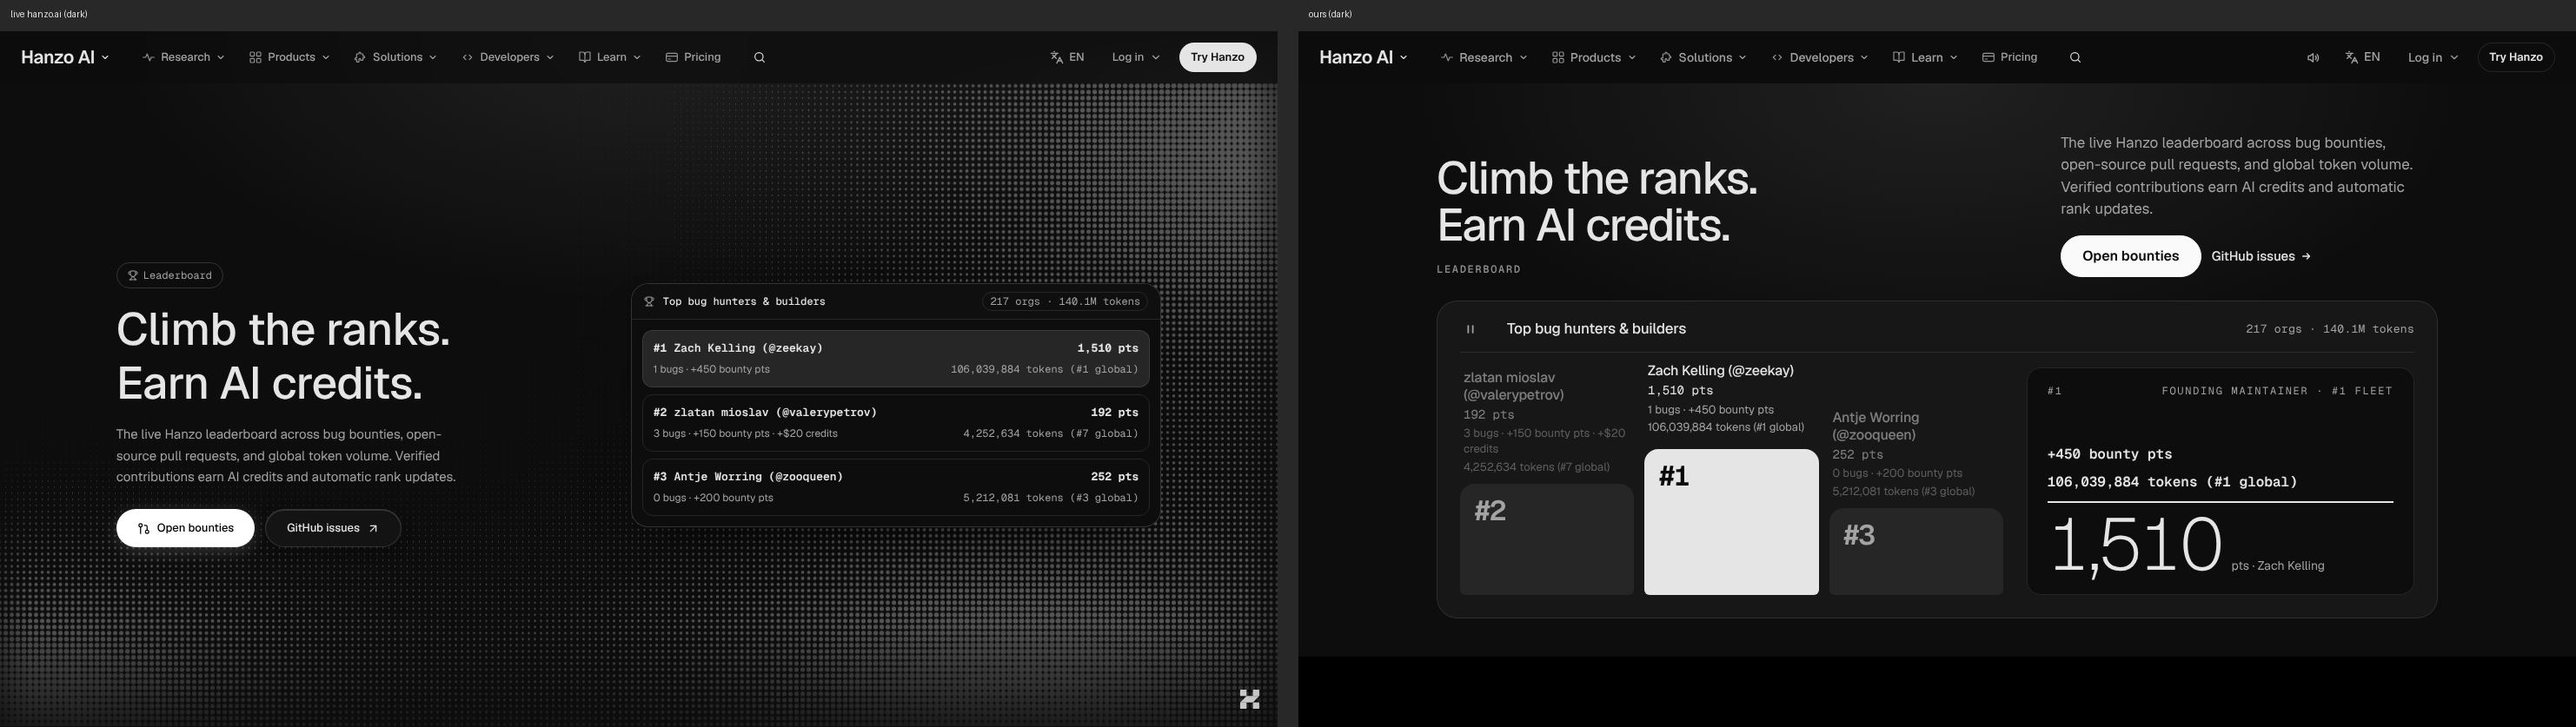
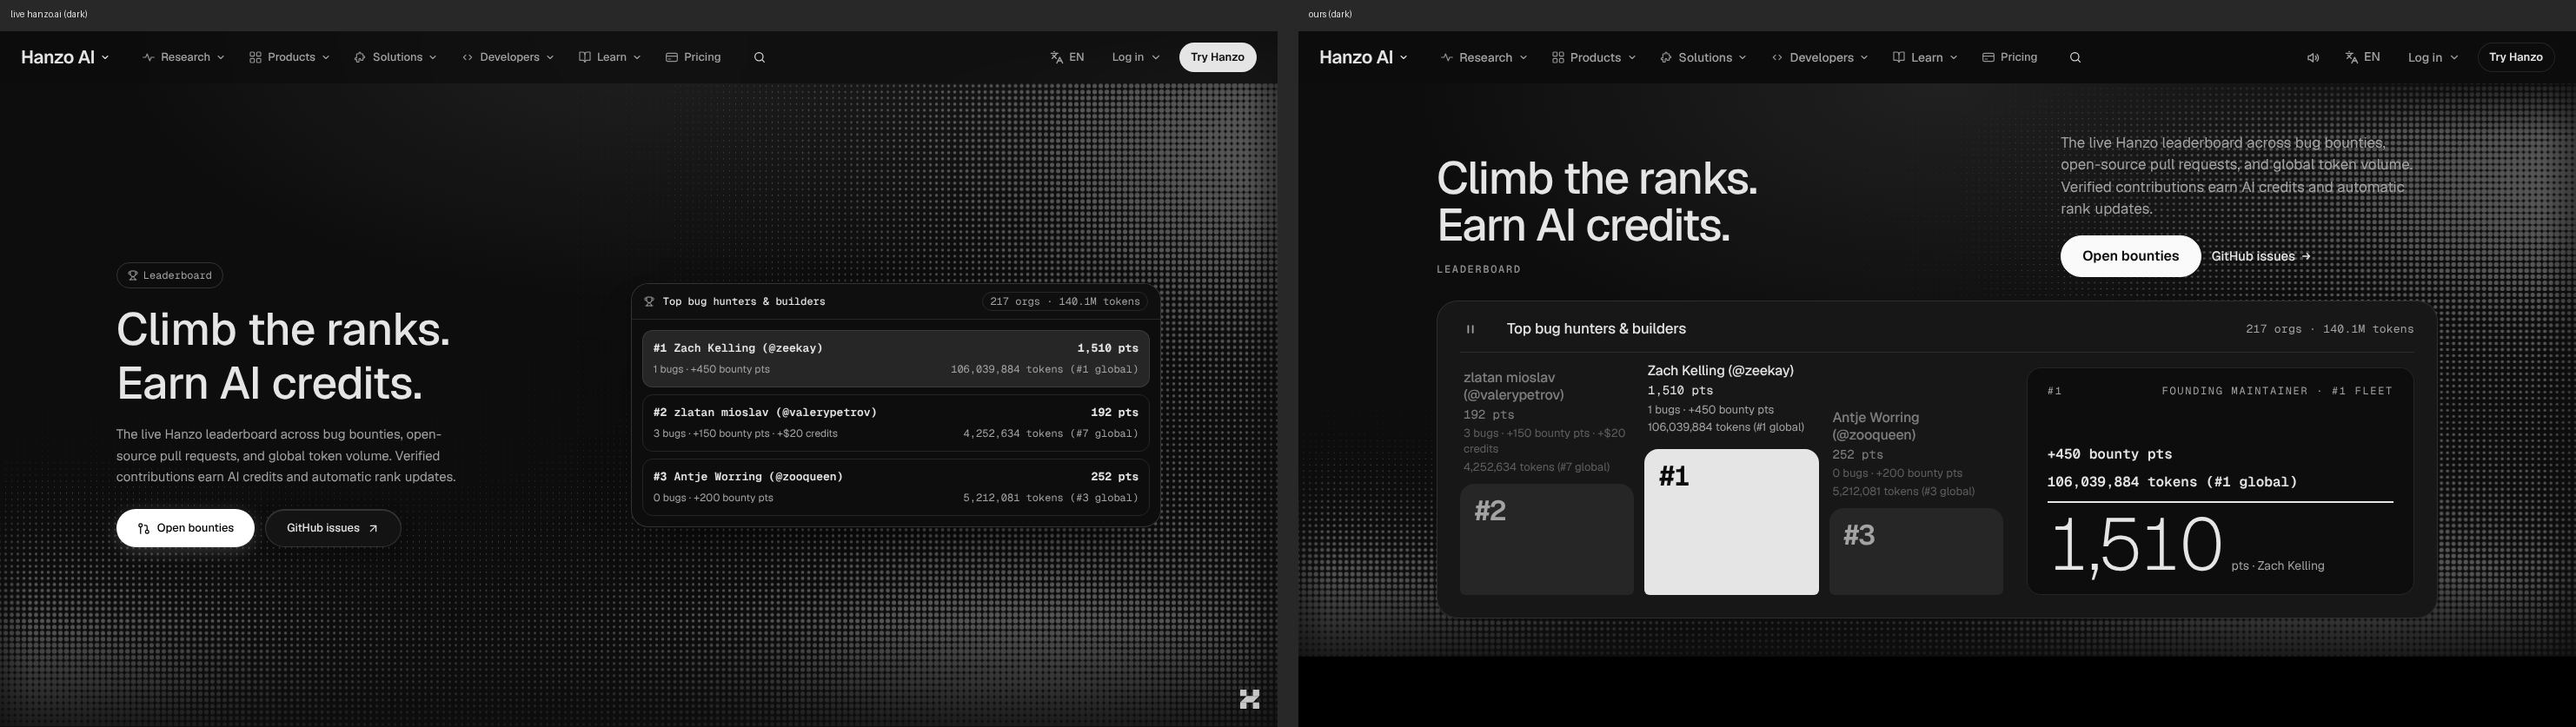
leaderboard: dark mode — live's hero halftone (HeroDither, dark only) under the hero Co-Authored-By: Claude Opus 5.5 <noreply@anthropic.com> Claude-Session: https://claude.ai/code/session_01P5YBdv7StJZXmK5oNtoxtW

Changed region(s): [[0.807, 0.1243, 1.0, 0.9008], [0.4966, 0.7145, 0.5897, 0.9008]]

diff --git a/components/pages/Leaderboard.jsx b/components/pages/Leaderboard.jsx
@@ -36,6 +36,7 @@ import { Arrive, Cascade, FocusPull, useArrive } from './leaderboard/entrances';
 import '../v2/ProofScale.css';
 import '../v2/ProofRhythm.css';
 import './Leaderboard.css';
+import HeroDither from './HeroDither';
 
 const ISSUES = 'https://github.com/search?type=issues&s=created&o=desc&q=is%3Aissue%20is%3Aopen%20label%3Abounty%20archived%3Afalse%20org%3Ahanzoai%20org%3Ahanzo-apps%20org%3Ahanzo-go%20org%3Ahanzo-js';
 const n = (v) => v.toLocaleString('en-US');
@@ -183,6 +184,7 @@ function Podium() {
 function Hero() {
   return (
     <section className="xlb-hero" aria-labelledby="xlb-h1">
+      <HeroDither />
       <div className="pf-wrap">
         <div className="xlb-hero-top">
           <div className="xlb-hero-h">

diff --git a/components/pages/Leaderboard.css b/components/pages/Leaderboard.css
@@ -34,6 +34,8 @@ html:not(.light) .xlb [data-room='dark'] {
   --k-dark: #262626; --k-ink: #0a0a0a; --k-hair: rgba(0, 0, 0, .1); --k-hair-2: rgba(0, 0, 0, .14); --k-hair-3: rgba(0, 0, 0, .3);
   --ink: var(--k-ink); --soft: var(--k-body); --faint: var(--k-dim); --line: var(--k-hair); --card: var(--k-quiet);
 }
+/* live's hero halftone (HeroDither, dark only) fills the hero */
+html:not(.light) .xlb-hero { position: relative; }
 html:not(.light) .xlb-hero { background: var(--k-glow); }
 html:not(.light) .xlb .pf-lede, html:not(.light) .xlb .pf-body:not([data-room='dark'] *) { color: var(--k-body); }
 html:not(.light) .xlb .pf-kick { color: var(--k-dim); }

diff --git a/docs/review/leaderboard.md b/docs/review/leaderboard.md
@@ -2,7 +2,7 @@
 
 Verdict: 6/10
 Ready: 8 Nov, copycheck missing 0 of 68 (live hanzo.ai). The token board's figures already matched live (live's board is server-rendered: its client GET to api.hanzo.ai/v1/leaderboard/bounty answers 401, so the page shows the same snapshot we carry), but each "N tokens" was a racing counter span plus loose text: the counter now runs aria-hidden and the resting "N tokens" line sits beside it as one visually hidden span; the window title, hunter names and org handles left <b> for styled spans, and the letter-cascade heading carries its whole line as a hidden span. taste/unique OK; 0 console errors, no overlap at 1470x801 and 375x812 (the one check hit is the scrubber rank's clipped roll mid-change). Shared, not this page: kit Band reveal/cta, globals.css Apple greys, shared ask bar (docs/requests/leaderboard.md).
-Dark: 8 Nov, matches live hanzo.ai in dark side by side (docs/gallery/leaderboard/dark-*.jpg); darkcheck OK, lightcheck OK, copycheck 0. (darkcheck's two remaining items are intended: the lit podium step is a light fill as live's primary/selected pill, and the calculator's 2px sum rule is a line in the page ink. The page's own ramp is re-pointed at Hanzo's tokens under html:not(.light); the two black rooms keep the light ramp. Live's halftone dot field is not drawn: our hero has none in bright mode, so adding one would change bright mode.)
+Dark: 8 Nov, matches live hanzo.ai in dark side by side (docs/gallery/leaderboard/dark-*.jpg); darkcheck OK, lightcheck OK, copycheck 0. (darkcheck's two remaining items are intended: the lit podium step is a light fill as live's primary/selected pill, and the calculator's 2px sum rule is a line in the page ink. The page's own ramp is re-pointed at Hanzo's tokens under html:not(.light); the two black rooms keep the light ramp. Live's hero halftone is drawn in dark only (shared HeroDither, Hanzo's own Dither), so bright mode is unchanged.)
 First complaint: "The best bit, the podium adding itself up, is cut off by the bottom of the screen, so what I see first is a headline, a paragraph and a grey box of names. Then I get ten grey bars that are all the same length, and the greys aren't even Hanzo's greys."
 
 Walked 7 Nov 2026 on the dev server at 1470x801 and 375x812. I used the recorder (13 desktop and 18 phone scroll stops, each with an idle pair, plus 14 hovers, 16 clicks and the video). Then I ran my own Playwright probes: arrival frames every 180 ms, the pinned chapters in 400 px wheel steps, hover and press styles on the primary, chips, steppers, rows and the scale tabs. I also checked the calculator maths after clicking +300 and dragging the range to 9, opened the sheet and closed it with Esc, and tried reduced motion, JS off, a 45-stop Tab crawl, overflow at 320, `taste.py`, `parity.py`, and live copy in `content/live/leaderboard.json`. I compared it with its neighbours /bounty and /referral.
